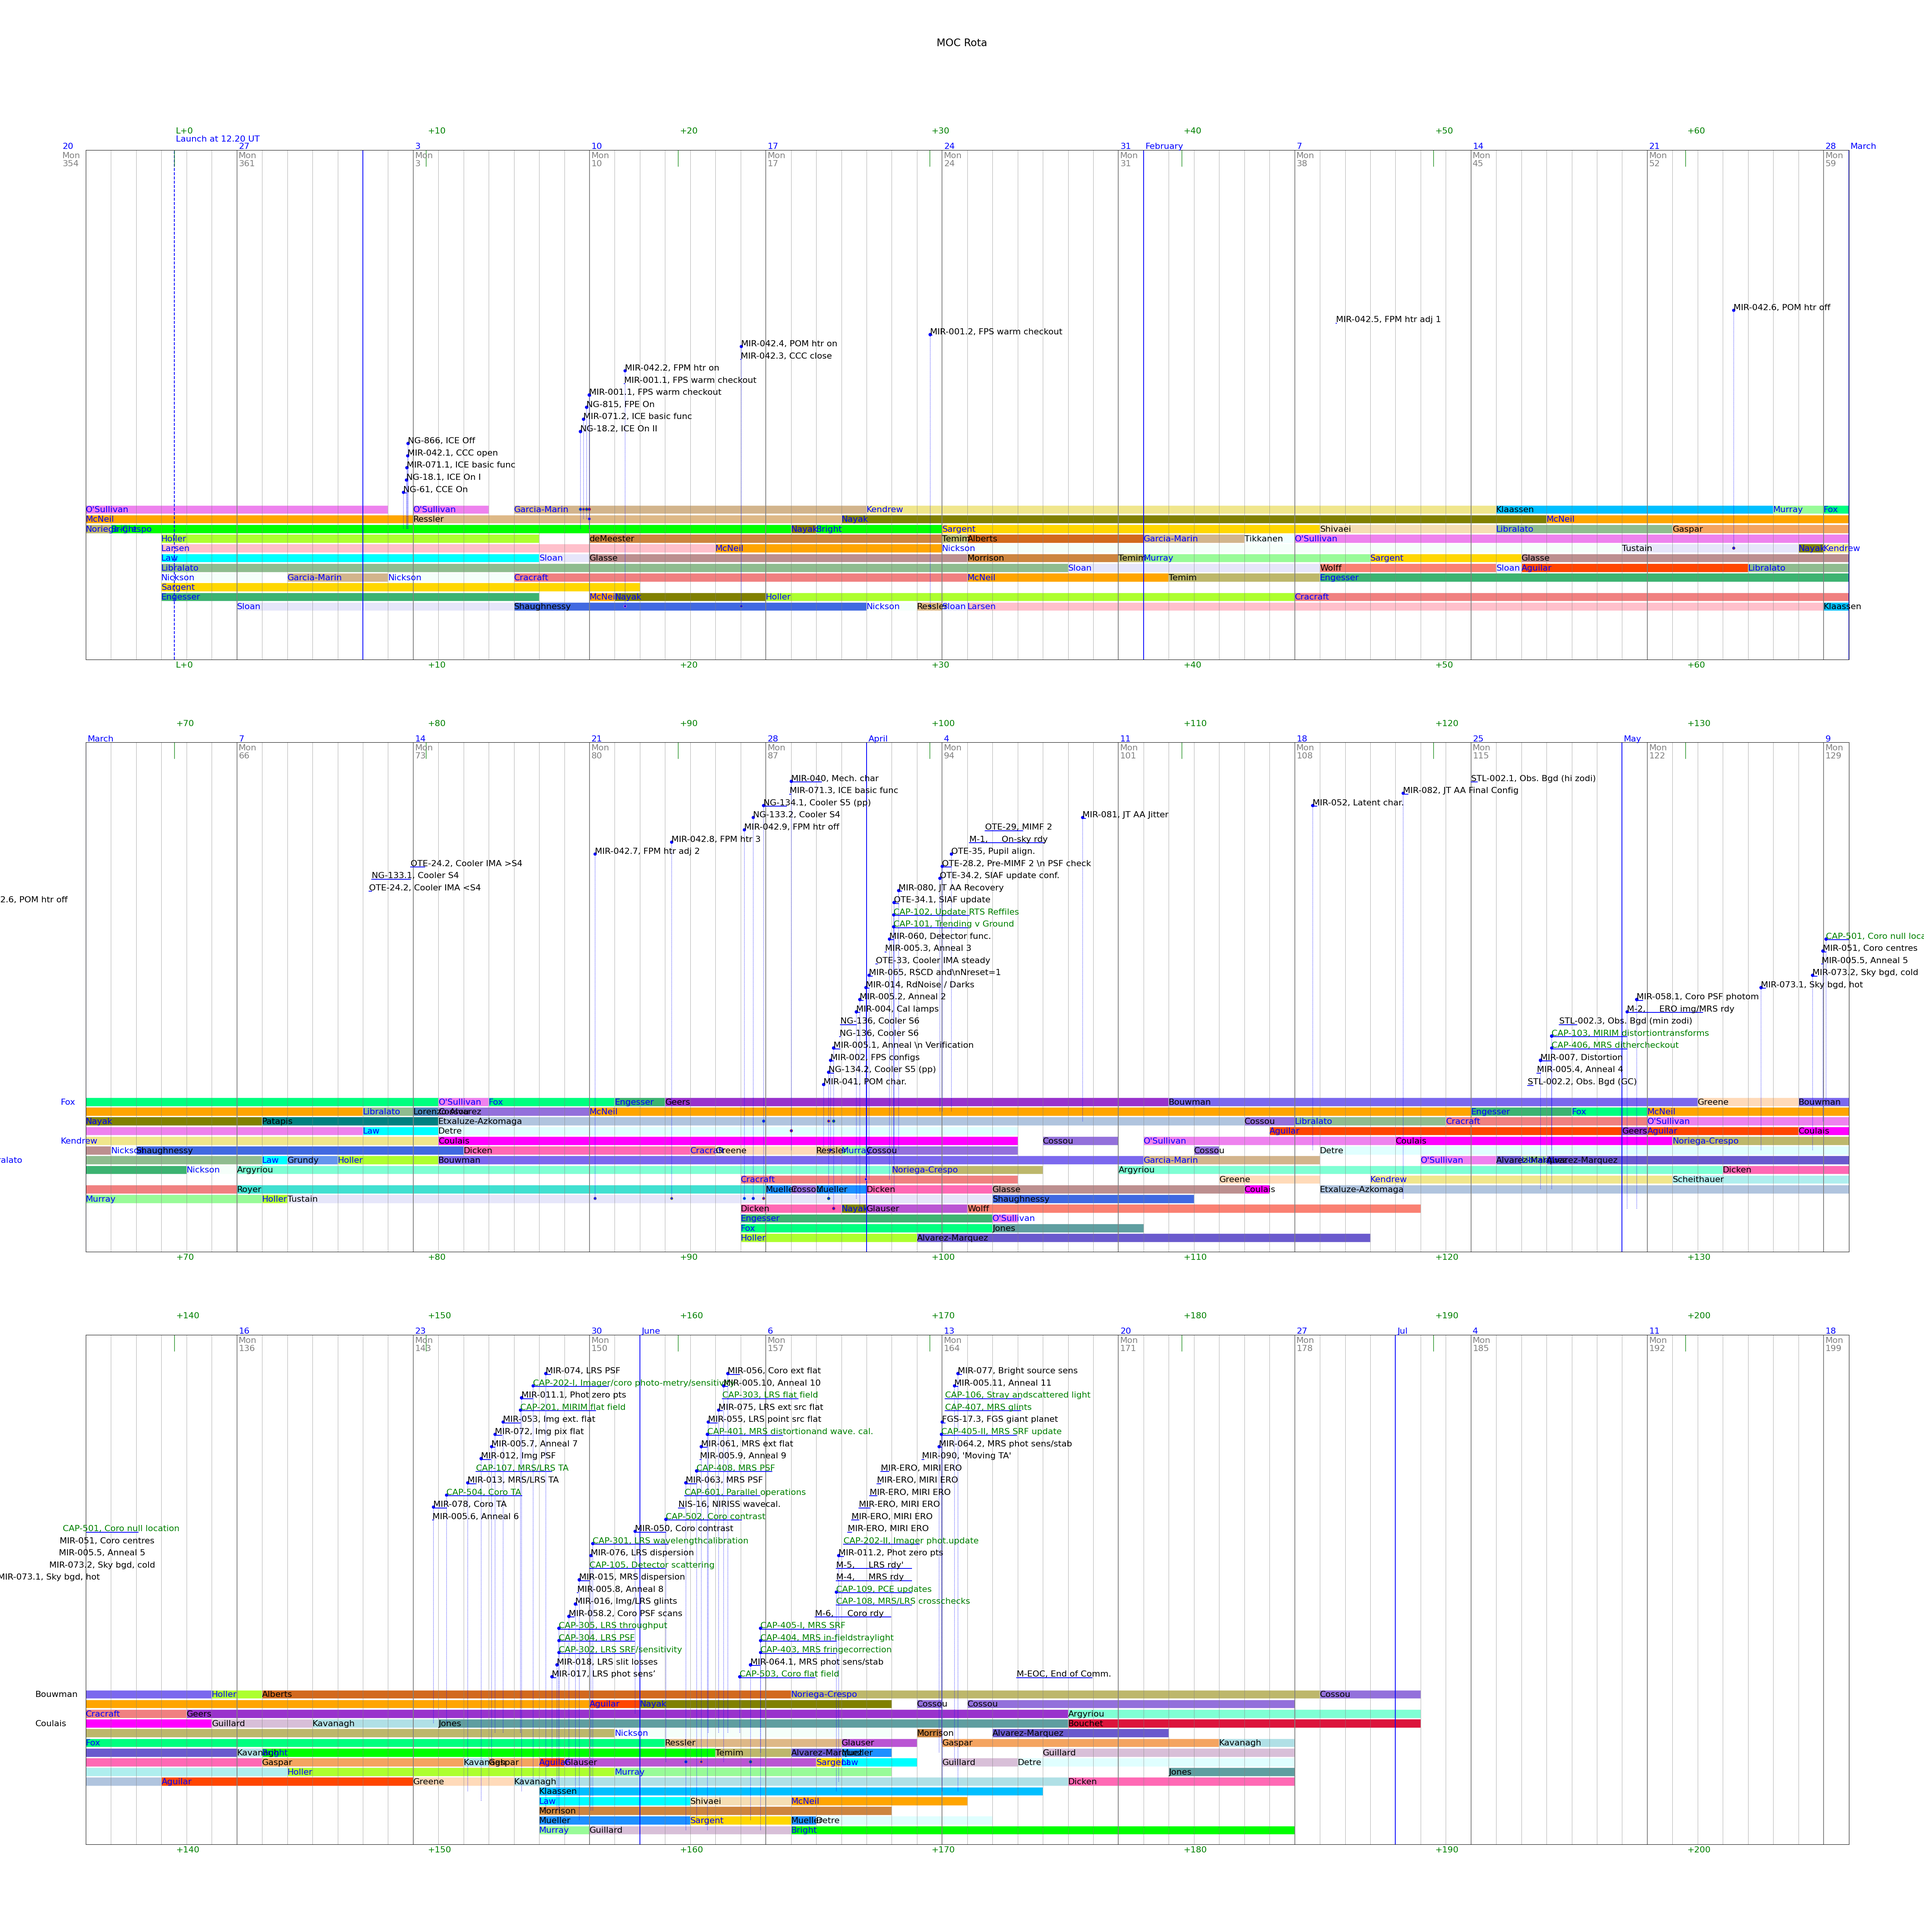
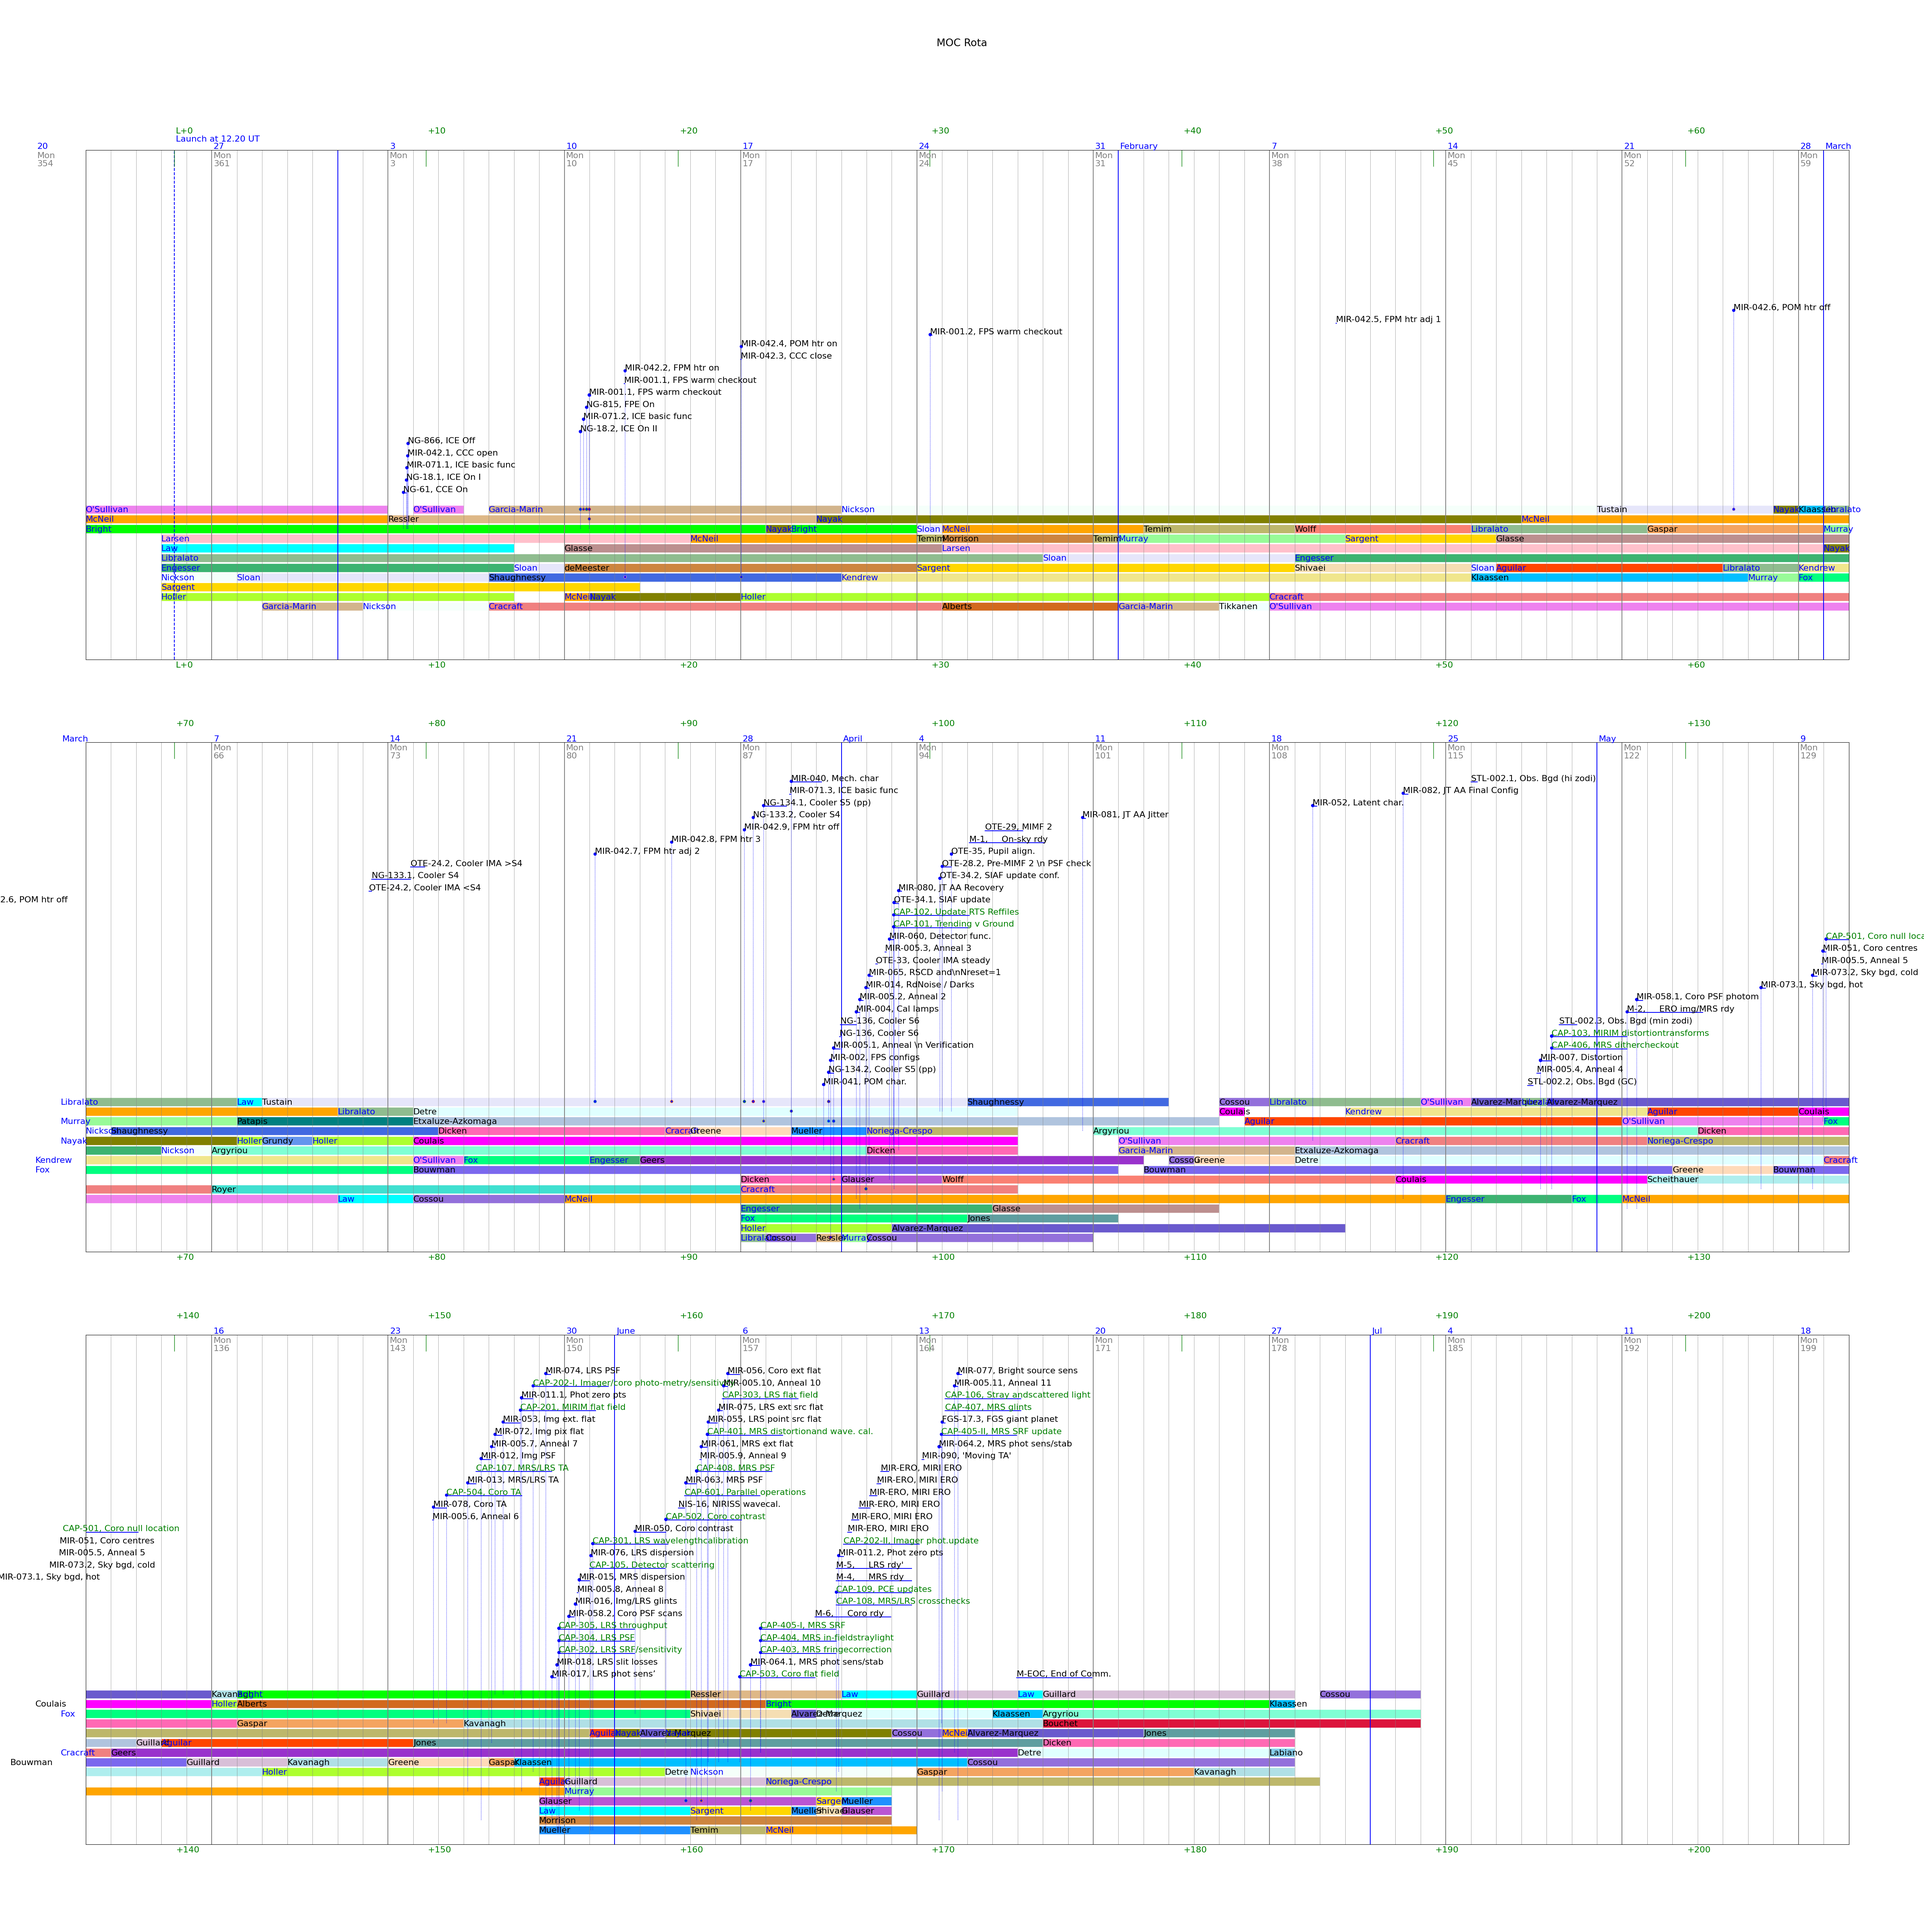
04/01/2022 - Updated launch date to 25/12/21 at 12.20z

Changed region(s): [[0.0624, 0.2496, 0.9672, 0.3432], [0.0312, 0.5616, 0.9672, 0.6552], [0.0312, 0.8736, 0.6864, 0.9672]]

diff --git a/source/shift_plan.py b/source/shift_plan.py
@@ -17,7 +17,7 @@ class ShiftPlan:
     """
     month_names = ['January', 'February', 'March', 'April', 'May', 'June',
                    'Jul', 'Aug', 'Sep', 'Oct', 'November', 'December']
-    launchyear, launchmonth, launchdate, launchhour = 2021, 12, 24, 12.20
+    launchyear, launchmonth, launchdate, launchhour = 2021, 12, 25, 12.20
     launchdate_last_monday = 13             # Date of month of the last Monday before launch
     start_md, end_md = -3, 190
     n_days = end_md - start_md + 1

diff --git a/source/timeliner.py b/source/timeliner.py
@@ -40,7 +40,7 @@ KdpUtils.schedule_kdps()
 kdps = KdpUtils.kdps
 
 print()
-dataflow = False        # True = Replot dataflow diagrams
+dataflow = True        # True = Replot dataflow diagrams
 if dataflow:
     dataflow = DataFlow()
     dc_keys = DataFlow.col_dict.keys()
